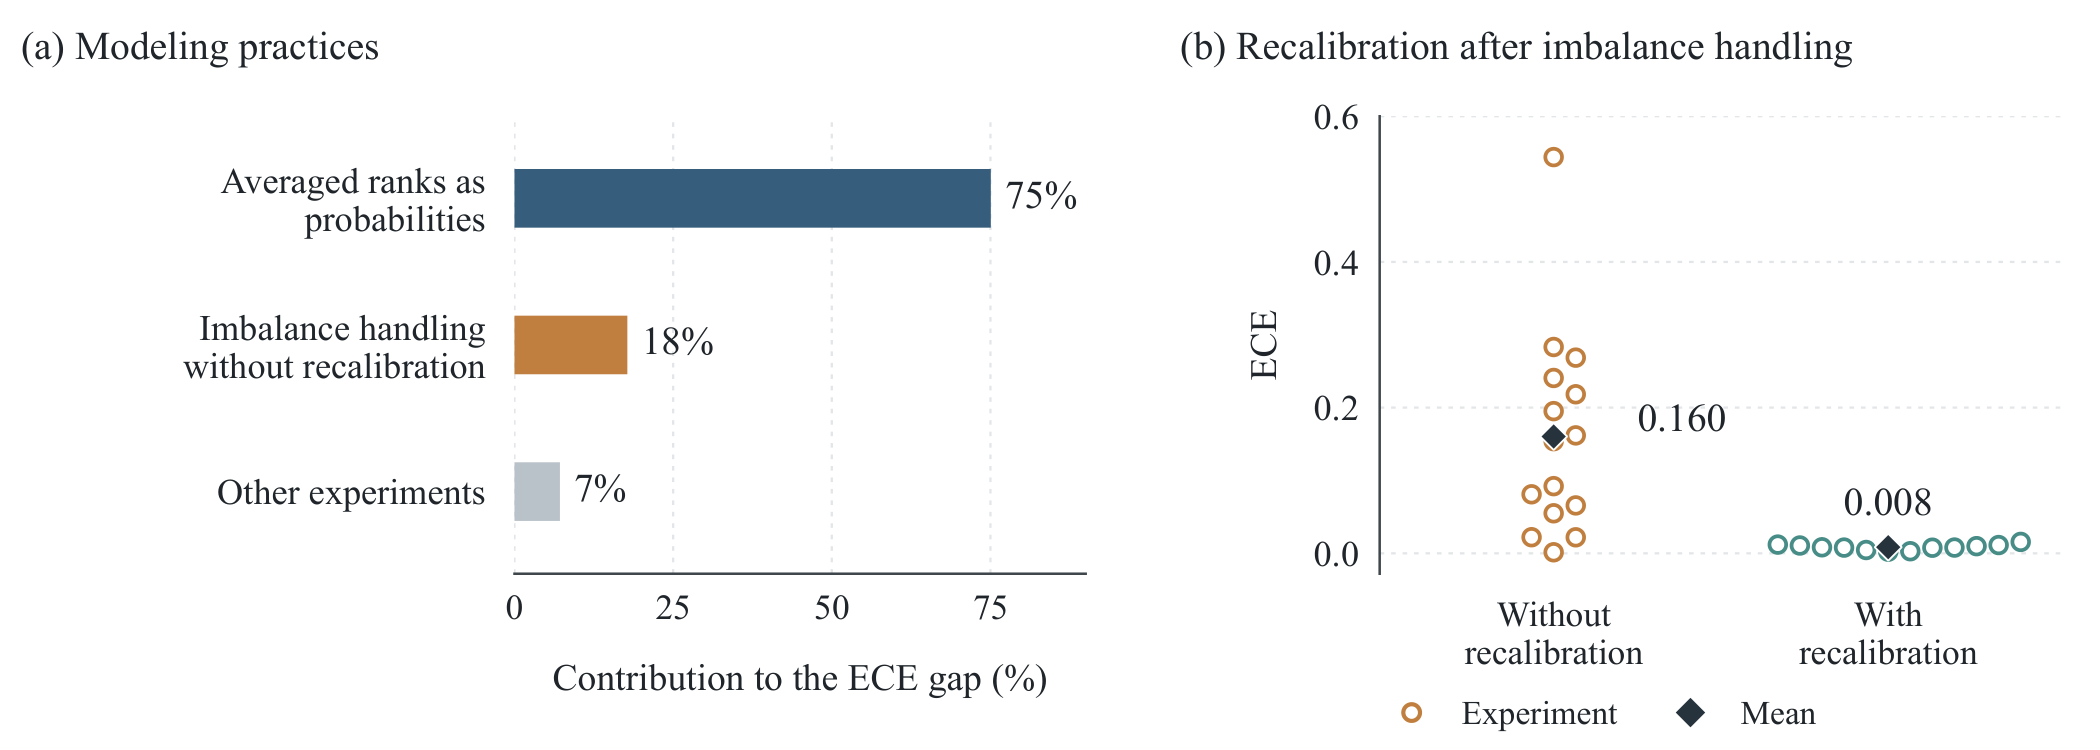
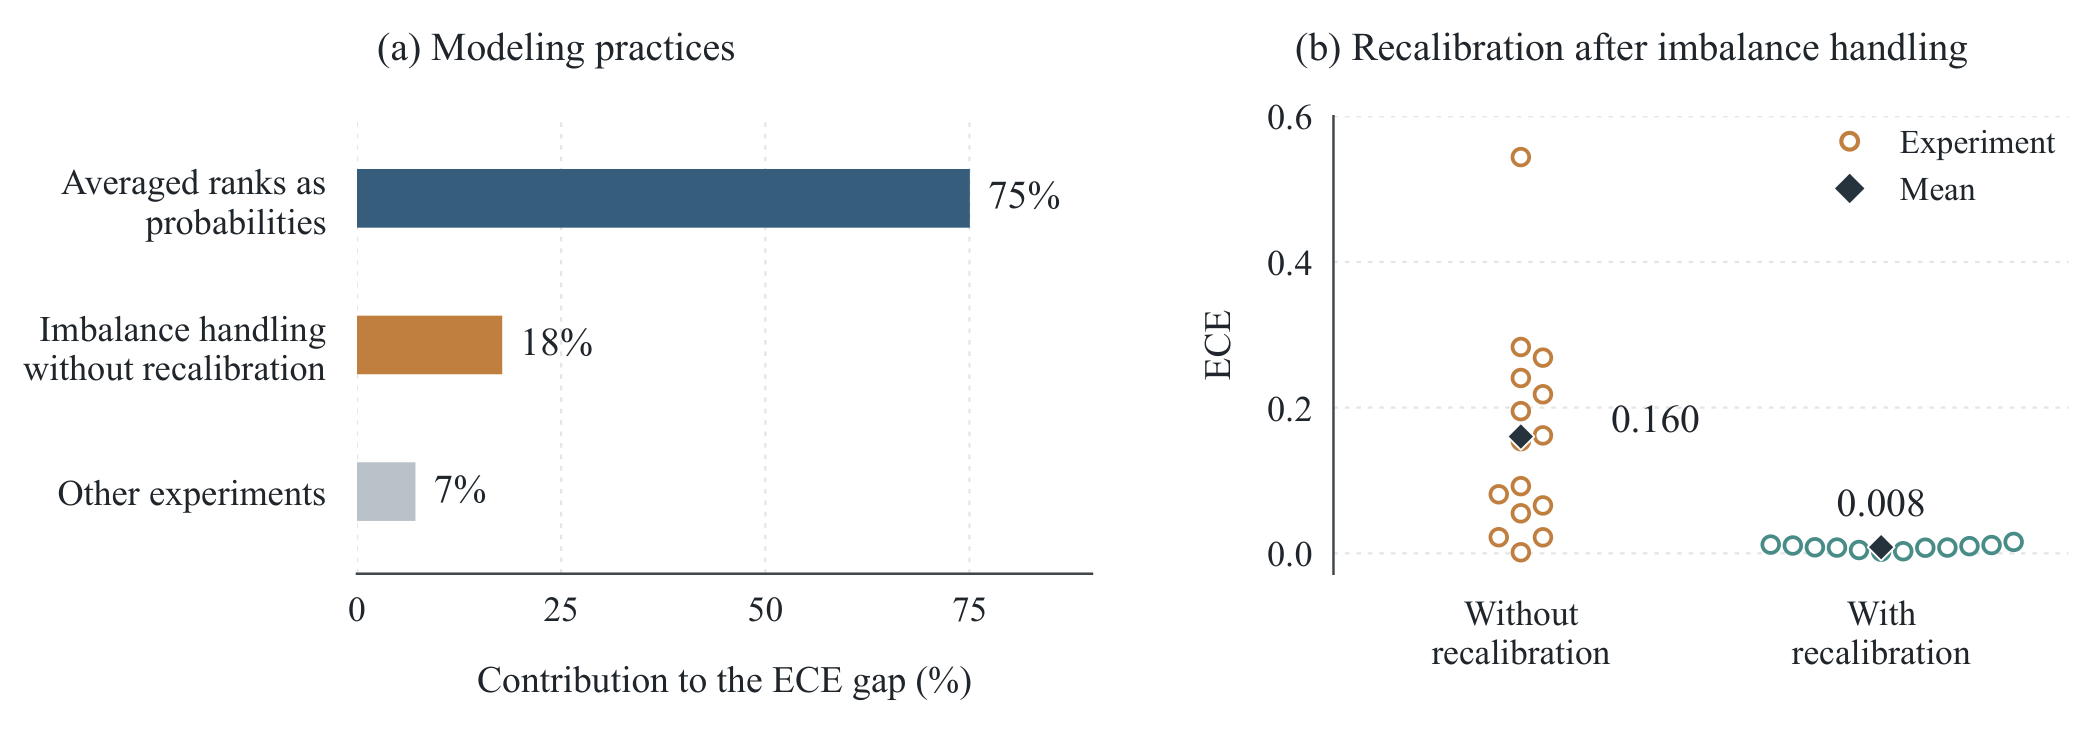
Project page and README figure: follow the revised paper (Figure 1, Figure 2, abstract, wording)

diff --git a/docs/index.html b/docs/index.html
@@ -368,7 +368,7 @@ footer .wrap { display: flex; flex-wrap: wrap; gap: 10px 28px; justify-content: 
       <div class="stat"><b>15</b><span>medical prediction tasks</span></div>
       <div class="stat"><b>10</b><span>clinical datasets</span></div>
       <div class="stat"><b>3</b><span>task types</span></div>
-      <div class="stat"><b>5</b><span>external-validation tasks</span></div>
+      <div class="stat"><b>5</b><span>external validation tasks</span></div>
       <div class="stat"><b>4</b><span>autoresearch agents</span></div>
       <div class="stat"><b>12 h</b><span>per run, offline</span></div>
     </div>
@@ -403,12 +403,12 @@ footer .wrap { display: flex; flex-wrap: wrap; gap: 10px 28px; justify-content: 
 <section id="overview">
   <div class="wrap">
     <figure class="figure-card reveal">
-      <a href="assets/overview.png" target="_blank" rel="noopener" class="zoom"><img src="assets/overview.png" alt="Overview of Auto-MD-bench: medical prediction tasks are given to autoresearch agents; the resulting models are evaluated on primary task performance, risk calibration and external validation, and the agents' code and development records are analyzed." width="2000" height="1032"></a>
-      <figcaption><b>Overview of Auto-MD-bench.</b> Agents develop medical prediction models under a stated primary objective. We evaluate primary task performance, risk calibration, and performance under population shift, and analyze code and development records to help explain performance differences.</figcaption>
+      <a href="assets/overview.png" target="_blank" rel="noopener" class="zoom"><img src="assets/overview.png" alt="Overview of Auto-MD-bench: real-world medical tasks are given to autoresearch agents; the resulting models are evaluated on primary task performance, risk calibration and external validation, and the agents' code and development records are analyzed." width="2000" height="1020"></a>
+      <figcaption><b>Overview of Auto-MD-bench.</b> Agents develop medical prediction models under a stated primary objective. We evaluate primary task performance, risk calibration, and performance under population shift, and analyze code and development records to help explain performance differences. External validation uses test data from a different cohort, hospital, or time period; the corresponding setting without population shift uses training and test data from the same population.</figcaption>
     </figure>
     <div class="narrow" style="margin-top:72px">
       <p class="kicker center">Abstract</p>
-      <p class="abstract">Autonomous agents are increasingly capable of developing machine-learning models end to end. In medical practice, however, strong performance on the target metric does not fully characterize how good the models are in real-world use cases. For example, medical AI models should also provide well-calibrated risk estimates and remain robust across patient populations. Yet autonomous model development is typically guided by task objectives such as AUROC. This raises a key question: how well do these objectives specify the medical AI models that agents ultimately build and how useful these models really are in healthcare? In this study, we introduce Auto-MD-bench, a benchmark of 15 real-world medical tasks from 10 clinical datasets, spanning survival analysis, classification and sequential prediction, with external validation across cohorts, hospitals and time periods. We evaluate four agents: AIDE, AI Scientist v2, Codex, and Autoresearch. The strongest agents achieve competitive primary scores, yet their predicted risks are substantially less well calibrated than those of the simple baseline models, which could lead to severe medical accidents. Moreover, models with nearly identical primary scores can exhibit markedly different calibration, while performance varies substantially across population shifts. These findings show that primary task performance alone is insufficient to assess autonomous clinical modeling and multiple different metrics widely used in healthcare practice need to be taken into consideration.</p>
+      <p class="abstract">Autonomous agents are increasingly capable of developing machine learning (ML) models end to end. In medical practice, however, strong performance on the target metric does not fully characterize how good the models are in real-world use cases. For example, medical ML models should also provide well-calibrated risk estimates and remain robust across patient populations. Yet autonomous model development is typically guided by task objectives that emphasize simple predictive discrimination (e.g. AUROC). This raises a key question: are these objectives sufficient to guide agents toward models that meet the broader requirements of real-world medical use? In this study, we introduce Auto-MD-bench, a benchmark of 15 real-world medical tasks from 10 clinical datasets, spanning survival analysis, classification and sequential prediction, with external validation across cohorts, hospitals and time periods. We evaluate four agents: AIDE, AI Scientist v2, Codex, and Autoresearch. The strongest agents achieve competitive primary scores, yet their predicted risks are less calibrated than those of the simple baseline models, which could lead to severe medical accidents. Moreover, models with nearly identical primary scores can exhibit markedly different calibration, while performance varies substantially across population shifts. These findings show that primary task performance alone is insufficient to assess autonomous clinical modeling and multiple different metrics widely used in healthcare practice need to be taken into consideration.</p>
     </div>
   </div>
 </section>
@@ -533,7 +533,7 @@ footer .wrap { display: flex; flex-wrap: wrap; gap: 10px 28px; justify-content: 
     <div class="measures">
       <div class="measure"><h3>Primary task performance</h3><p>C<sup>td</sup> for survival, AUROC for classification (min(Se, PPV) for PhysioNet 2012), normalized challenge utility for sequential prediction. Normalized as <span class="formula">(m − m₀)/(1 − m₀)</span> against null predictions and averaged over tasks.</p></div>
       <div class="measure o"><h3>Risk calibration</h3><p>Expected calibration error. For survival, predicted survival at three time points is compared with Kaplan–Meier estimates, which account for censoring; sequential tasks use patient-hours.</p></div>
-      <div class="measure o"><h3>Population shift</h3><p>Five external-validation tasks test on a different cohort, hospital or period. We report their scores and the ratio to the matching internal-validation task.</p></div>
+      <div class="measure o"><h3>Population shift</h3><p>Five external validation tasks test on a different cohort, hospital or period. We report their scores and the ratio to the matching internal validation task.</p></div>
     </div>
   </div>
 </section>
@@ -562,7 +562,7 @@ footer .wrap { display: flex; flex-wrap: wrap; gap: 10px 28px; justify-content: 
           <tbody id="overall-body"><tr><td class="pm">1</td><td><div class="sys"><span class="sw" style="background:var(--c-auto)"></span>Autoresearch <small>coding agent</small></div></td><td class="num"><span class="bar"><span><span class="best">0.518</span> <span class="pm">± 0.006</span></span><span class="bg"><i style="width:86.33333333333334%"></i></span></span></td><td class="num"><span class="">1.80</span> <span class="pm">± 0.77</span></td><td class="num"><span class="bar"><span class="">0.075</span><span class="bg"><i class="o" style="width:53.57142857142857%"></i></span></span></td><td class="num">100.0%</td></tr><tr><td class="pm">2</td><td><div class="sys"><span class="sw" style="background:var(--c-codex)"></span>Codex <small>coding agent</small></div></td><td class="num"><span class="bar"><span><span class="">0.517</span> <span class="pm">± 0.003</span></span><span class="bg"><i style="width:86.16666666666667%"></i></span></span></td><td class="num"><span class="best">1.60</span> <span class="pm">± 0.51</span></td><td class="num"><span class="bar"><span class="">0.086</span><span class="bg"><i class="o" style="width:61.42857142857142%"></i></span></span></td><td class="num">100.0%</td></tr><tr class="ref-row"><td class="pm"></td><td><div class="sys"><span class="sw" style="background:#17212e;transform:rotate(45deg);width:9px;height:9px;border-radius:1px"></span>Simple baseline models</div></td><td class="num"><span class="bar"><span><span class="">0.487</span></span><span class="bg"><i style="width:81.16666666666667%"></i></span></span></td><td class="num">–</td><td class="num"><span class="bar"><span class="best">0.027</span><span class="bg"><i class="o" style="width:19.285714285714285%"></i></span></span></td><td class="num">–</td></tr><tr><td class="pm">3</td><td><div class="sys"><span class="sw" style="background:var(--c-aide)"></span>AIDE <small>research agent</small></div></td><td class="num"><span class="bar"><span><span class="">0.474</span> <span class="pm">± 0.032</span></span><span class="bg"><i style="width:79%"></i></span></span></td><td class="num"><span class="">2.93</span> <span class="pm">± 0.88</span></td><td class="num"><span class="bar"><span class="">0.128</span><span class="bg"><i class="o" style="width:91.42857142857143%"></i></span></span></td><td class="num">100.0%</td></tr><tr><td class="pm">4</td><td><div class="sys"><span class="sw" style="background:var(--c-ais)"></span>AI Scientist v2 <small>research agent</small></div></td><td class="num"><span class="bar"><span><span class="">0.355</span> <span class="pm">± 0.064</span></span><span class="bg"><i style="width:59.166666666666664%"></i></span></span></td><td class="num"><span class="">3.67</span> <span class="pm">± 0.82</span></td><td class="num"><span class="bar"><span class="">0.072</span><span class="bg"><i class="o" style="width:51.42857142857142%"></i></span></span></td><td class="num">73.3% <span class="pm">± 13.3%</span></td></tr></tbody>
         </table>
       </div>
-      <p class="note">Scores and valid-run rates: mean ± SD over three repetitions; with valid runs only, each task is first averaged over its valid runs. Mean rank: mean ± SD across the 15 tasks of each agent's rank among the four agents. ECE: mean over tasks of valid runs. The simple baseline models are fixed models (Cox neural network for survival, histogram gradient boosting otherwise), averaged over five fits.</p>
+      <p class="note">Scores and valid run rates: mean ± SD over three repetitions; with valid runs only, each task is first averaged over its valid runs. Mean rank: mean ± SD across the 15 tasks of each agent's rank among the four agents. ECE: mean over tasks of valid runs. The simple baseline models are fixed models (Cox neural network for survival, histogram gradient boosting otherwise), averaged over five fits.</p>
     </div>
 
     <div class="panel" id="p-task">
@@ -639,7 +639,7 @@ footer .wrap { display: flex; flex-wrap: wrap; gap: 10px 28px; justify-content: 
     <div class="tbl-wrap">
       <table id="methods-table">
         <thead><tr><th>Method (share of valid experiments)</th><th class="num">AIDE</th><th class="num">Codex</th><th class="num">Autoresearch</th><th class="num">AI Scientist v2</th></tr></thead>
-        <tbody id="methods-body"><tr class="group"><td colspan="5">Model family</td></tr><tr><td>Gradient-boosted trees</td><td class="num"><span class="bar"><span>87% <span class="pm">± 0%</span></span><span class="bg" style="width:64px"><i style="width:87%;background:var(--c-aide)"></i></span></span></td><td class="num"><span class="bar"><span>89% <span class="pm">± 8%</span></span><span class="bg" style="width:64px"><i style="width:89%;background:var(--c-codex)"></i></span></span></td><td class="num"><span class="bar"><span>89% <span class="pm">± 8%</span></span><span class="bg" style="width:64px"><i style="width:89%;background:var(--c-auto)"></i></span></span></td><td class="num"><span class="bar"><span>76% <span class="pm">± 13%</span></span><span class="bg" style="width:64px"><i style="width:76%;background:var(--c-ais)"></i></span></span></td></tr><tr><td>Neural networks</td><td class="num"><span class="bar"><span>11% <span class="pm">± 8%</span></span><span class="bg" style="width:64px"><i style="width:11%;background:var(--c-aide)"></i></span></span></td><td class="num"><span class="bar"><span>31% <span class="pm">± 17%</span></span><span class="bg" style="width:64px"><i style="width:31%;background:var(--c-codex)"></i></span></span></td><td class="num"><span class="bar"><span>38% <span class="pm">± 10%</span></span><span class="bg" style="width:64px"><i style="width:38%;background:var(--c-auto)"></i></span></span></td><td class="num"><span class="bar"><span>36% <span class="pm">± 10%</span></span><span class="bg" style="width:64px"><i style="width:36%;background:var(--c-ais)"></i></span></span></td></tr><tr class="group"><td colspan="5">Ensembling and validation</td></tr><tr><td>Averaging across seeds or folds</td><td class="num"><span class="bar"><span>62% <span class="pm">± 14%</span></span><span class="bg" style="width:64px"><i style="width:62%;background:var(--c-aide)"></i></span></span></td><td class="num"><span class="bar"><span>89% <span class="pm">± 4%</span></span><span class="bg" style="width:64px"><i style="width:89%;background:var(--c-codex)"></i></span></span></td><td class="num"><span class="bar"><span>89% <span class="pm">± 10%</span></span><span class="bg" style="width:64px"><i style="width:89%;background:var(--c-auto)"></i></span></span></td><td class="num"><span class="bar"><span>31% <span class="pm">± 7%</span></span><span class="bg" style="width:64px"><i style="width:31%;background:var(--c-ais)"></i></span></span></td></tr><tr><td>Single model only</td><td class="num"><span class="bar"><span>13% <span class="pm">± 12%</span></span><span class="bg" style="width:64px"><i style="width:13%;background:var(--c-aide)"></i></span></span></td><td class="num"><span class="bar"><span>2% <span class="pm">± 4%</span></span><span class="bg" style="width:64px"><i style="width:2%;background:var(--c-codex)"></i></span></span></td><td class="num"><span class="bar"><span>4% <span class="pm">± 8%</span></span><span class="bg" style="width:64px"><i style="width:4%;background:var(--c-auto)"></i></span></span></td><td class="num"><span class="bar"><span>36% <span class="pm">± 10%</span></span><span class="bg" style="width:64px"><i style="width:36%;background:var(--c-ais)"></i></span></span></td></tr><tr><td>Single hold-out split only</td><td class="num"><span class="bar"><span>9% <span class="pm">± 4%</span></span><span class="bg" style="width:64px"><i style="width:9%;background:var(--c-aide)"></i></span></span></td><td class="num"><span class="bar"><span>4% <span class="pm">± 4%</span></span><span class="bg" style="width:64px"><i style="width:4%;background:var(--c-codex)"></i></span></span></td><td class="num"><span class="bar"><span>13% <span class="pm">± 7%</span></span><span class="bg" style="width:64px"><i style="width:13%;background:var(--c-auto)"></i></span></span></td><td class="num"><span class="bar"><span>37% <span class="pm">± 16%</span></span><span class="bg" style="width:64px"><i style="width:37%;background:var(--c-ais)"></i></span></span></td></tr><tr class="group"><td colspan="5">Calibration</td></tr><tr><td>Probability calibration</td><td class="num"><span class="bar"><span>2% <span class="pm">± 4%</span></span><span class="bg" style="width:64px"><i style="width:2%;background:var(--c-aide)"></i></span></span></td><td class="num"><span class="bar"><span>22% <span class="pm">± 10%</span></span><span class="bg" style="width:64px"><i style="width:22%;background:var(--c-codex)"></i></span></span></td><td class="num"><span class="bar"><span>22% <span class="pm">± 8%</span></span><span class="bg" style="width:64px"><i style="width:22%;background:var(--c-auto)"></i></span></span></td><td class="num"><span class="bar"><span>14% <span class="pm">± 12%</span></span><span class="bg" style="width:64px"><i style="width:14%;background:var(--c-ais)"></i></span></span></td></tr></tbody>
+        <tbody id="methods-body"><tr class="group"><td colspan="5">Model family</td></tr><tr><td>Gradient-boosted trees</td><td class="num"><span class="bar"><span>87% <span class="pm">± 0%</span></span><span class="bg" style="width:64px"><i style="width:87%;background:var(--c-aide)"></i></span></span></td><td class="num"><span class="bar"><span>89% <span class="pm">± 8%</span></span><span class="bg" style="width:64px"><i style="width:89%;background:var(--c-codex)"></i></span></span></td><td class="num"><span class="bar"><span>89% <span class="pm">± 8%</span></span><span class="bg" style="width:64px"><i style="width:89%;background:var(--c-auto)"></i></span></span></td><td class="num"><span class="bar"><span>76% <span class="pm">± 13%</span></span><span class="bg" style="width:64px"><i style="width:76%;background:var(--c-ais)"></i></span></span></td></tr><tr><td>Neural networks</td><td class="num"><span class="bar"><span>11% <span class="pm">± 8%</span></span><span class="bg" style="width:64px"><i style="width:11%;background:var(--c-aide)"></i></span></span></td><td class="num"><span class="bar"><span>31% <span class="pm">± 17%</span></span><span class="bg" style="width:64px"><i style="width:31%;background:var(--c-codex)"></i></span></span></td><td class="num"><span class="bar"><span>38% <span class="pm">± 10%</span></span><span class="bg" style="width:64px"><i style="width:38%;background:var(--c-auto)"></i></span></span></td><td class="num"><span class="bar"><span>36% <span class="pm">± 10%</span></span><span class="bg" style="width:64px"><i style="width:36%;background:var(--c-ais)"></i></span></span></td></tr><tr class="group"><td colspan="5">Ensembling and validation</td></tr><tr><td>Averaging across seeds or folds</td><td class="num"><span class="bar"><span>62% <span class="pm">± 14%</span></span><span class="bg" style="width:64px"><i style="width:62%;background:var(--c-aide)"></i></span></span></td><td class="num"><span class="bar"><span>89% <span class="pm">± 4%</span></span><span class="bg" style="width:64px"><i style="width:89%;background:var(--c-codex)"></i></span></span></td><td class="num"><span class="bar"><span>89% <span class="pm">± 10%</span></span><span class="bg" style="width:64px"><i style="width:89%;background:var(--c-auto)"></i></span></span></td><td class="num"><span class="bar"><span>31% <span class="pm">± 7%</span></span><span class="bg" style="width:64px"><i style="width:31%;background:var(--c-ais)"></i></span></span></td></tr><tr><td>Single model only</td><td class="num"><span class="bar"><span>13% <span class="pm">± 12%</span></span><span class="bg" style="width:64px"><i style="width:13%;background:var(--c-aide)"></i></span></span></td><td class="num"><span class="bar"><span>2% <span class="pm">± 4%</span></span><span class="bg" style="width:64px"><i style="width:2%;background:var(--c-codex)"></i></span></span></td><td class="num"><span class="bar"><span>4% <span class="pm">± 8%</span></span><span class="bg" style="width:64px"><i style="width:4%;background:var(--c-auto)"></i></span></span></td><td class="num"><span class="bar"><span>36% <span class="pm">± 10%</span></span><span class="bg" style="width:64px"><i style="width:36%;background:var(--c-ais)"></i></span></span></td></tr><tr><td>Single holdout split only</td><td class="num"><span class="bar"><span>9% <span class="pm">± 4%</span></span><span class="bg" style="width:64px"><i style="width:9%;background:var(--c-aide)"></i></span></span></td><td class="num"><span class="bar"><span>4% <span class="pm">± 4%</span></span><span class="bg" style="width:64px"><i style="width:4%;background:var(--c-codex)"></i></span></span></td><td class="num"><span class="bar"><span>13% <span class="pm">± 7%</span></span><span class="bg" style="width:64px"><i style="width:13%;background:var(--c-auto)"></i></span></span></td><td class="num"><span class="bar"><span>37% <span class="pm">± 16%</span></span><span class="bg" style="width:64px"><i style="width:37%;background:var(--c-ais)"></i></span></span></td></tr><tr class="group"><td colspan="5">Calibration</td></tr><tr><td>Probability calibration</td><td class="num"><span class="bar"><span>2% <span class="pm">± 4%</span></span><span class="bg" style="width:64px"><i style="width:2%;background:var(--c-aide)"></i></span></span></td><td class="num"><span class="bar"><span>22% <span class="pm">± 10%</span></span><span class="bg" style="width:64px"><i style="width:22%;background:var(--c-codex)"></i></span></span></td><td class="num"><span class="bar"><span>22% <span class="pm">± 8%</span></span><span class="bg" style="width:64px"><i style="width:22%;background:var(--c-auto)"></i></span></span></td><td class="num"><span class="bar"><span>14% <span class="pm">± 12%</span></span><span class="bg" style="width:64px"><i style="width:14%;background:var(--c-ais)"></i></span></span></td></tr></tbody>
       </table>
     </div>
     <p class="note">Mean ± SD over three repetitions; categories can overlap. Code review also found errors in handling censored outcomes in 8 of 79 valid survival submissions, all of which still beat their task's simple baseline score.</p>
@@ -883,7 +883,7 @@ document.documentElement.className += " js";
     ["Ensembling and validation"],
     ["Averaging across seeds or folds", [62, 14], [89, 4], [89, 10], [31, 7]],
     ["Single model only", [13, 12], [2, 4], [4, 8], [36, 10]],
-    ["Single hold-out split only", [9, 4], [4, 4], [13, 7], [37, 16]],
+    ["Single holdout split only", [9, 4], [4, 4], [13, 7], [37, 16]],
     ["Calibration"],
     ["Probability calibration", [2, 4], [22, 10], [22, 8], [14, 12]]
   ];
